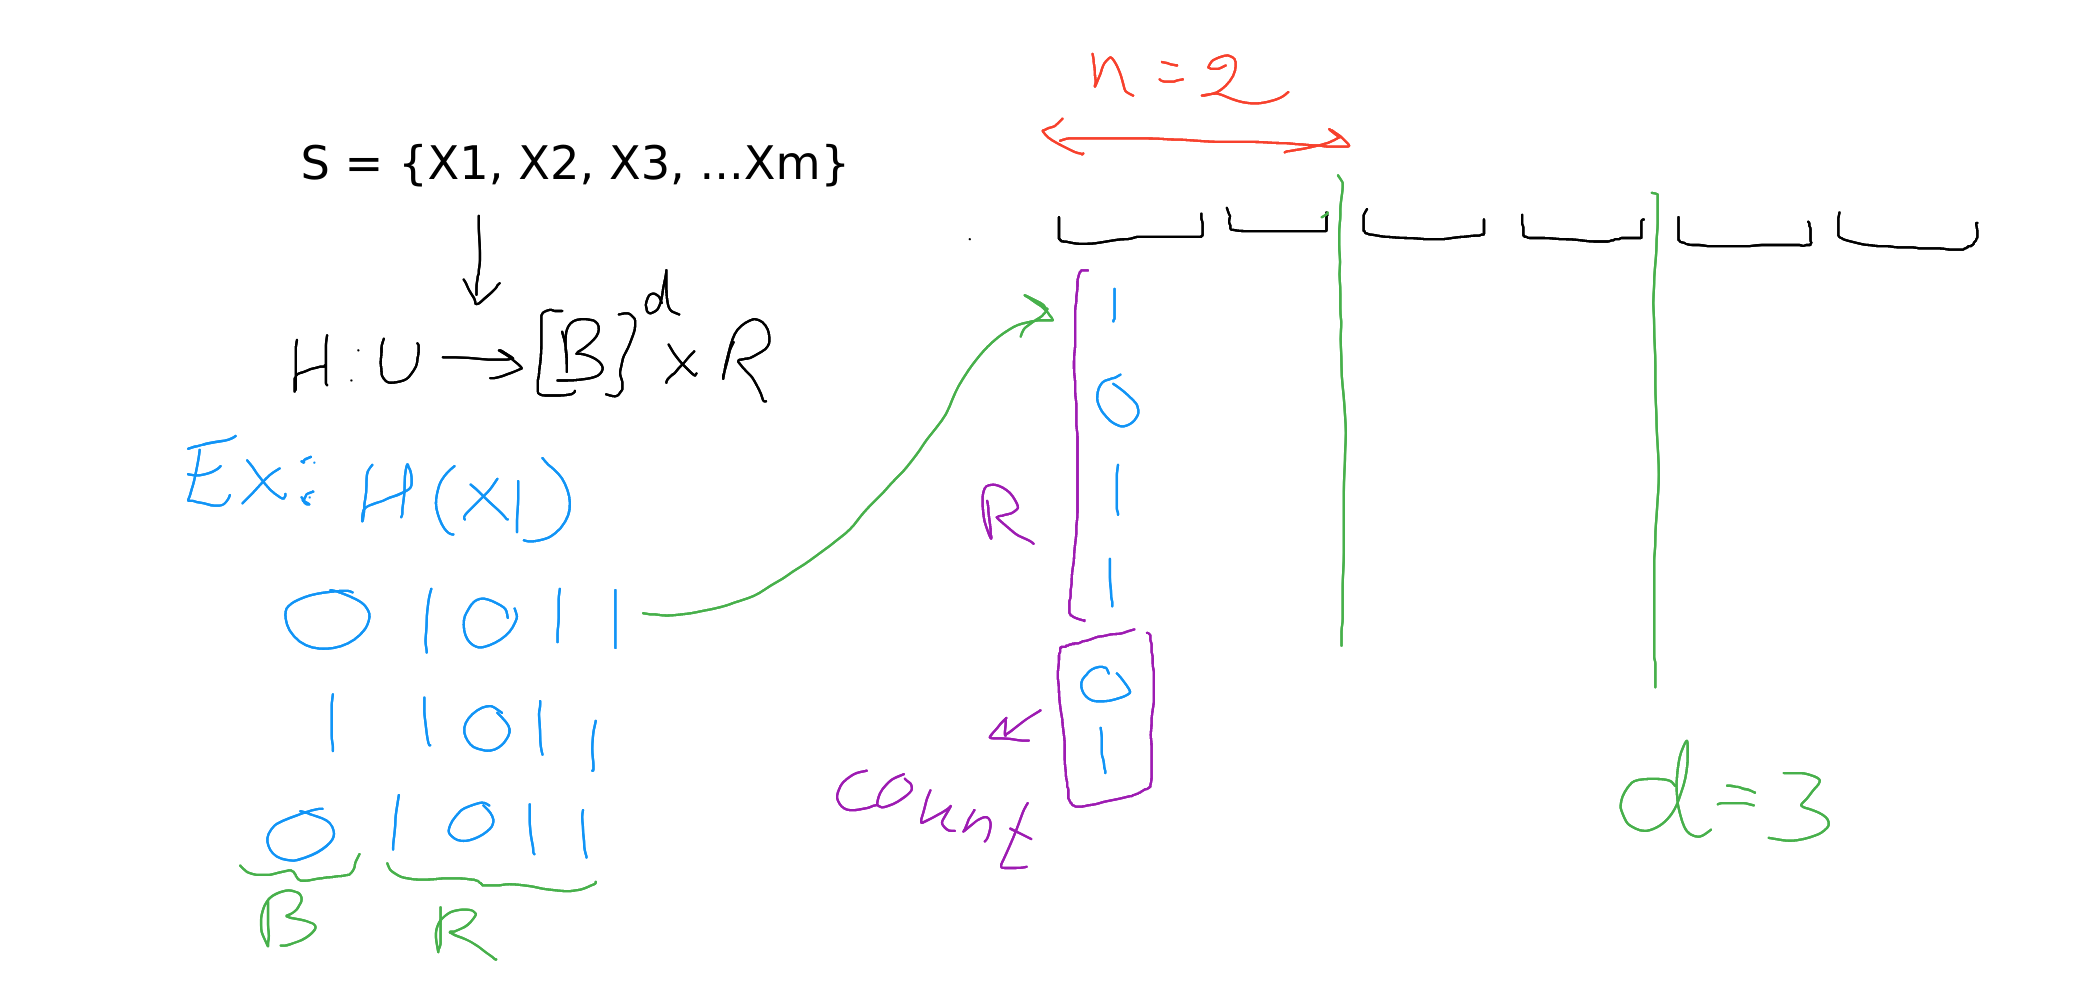
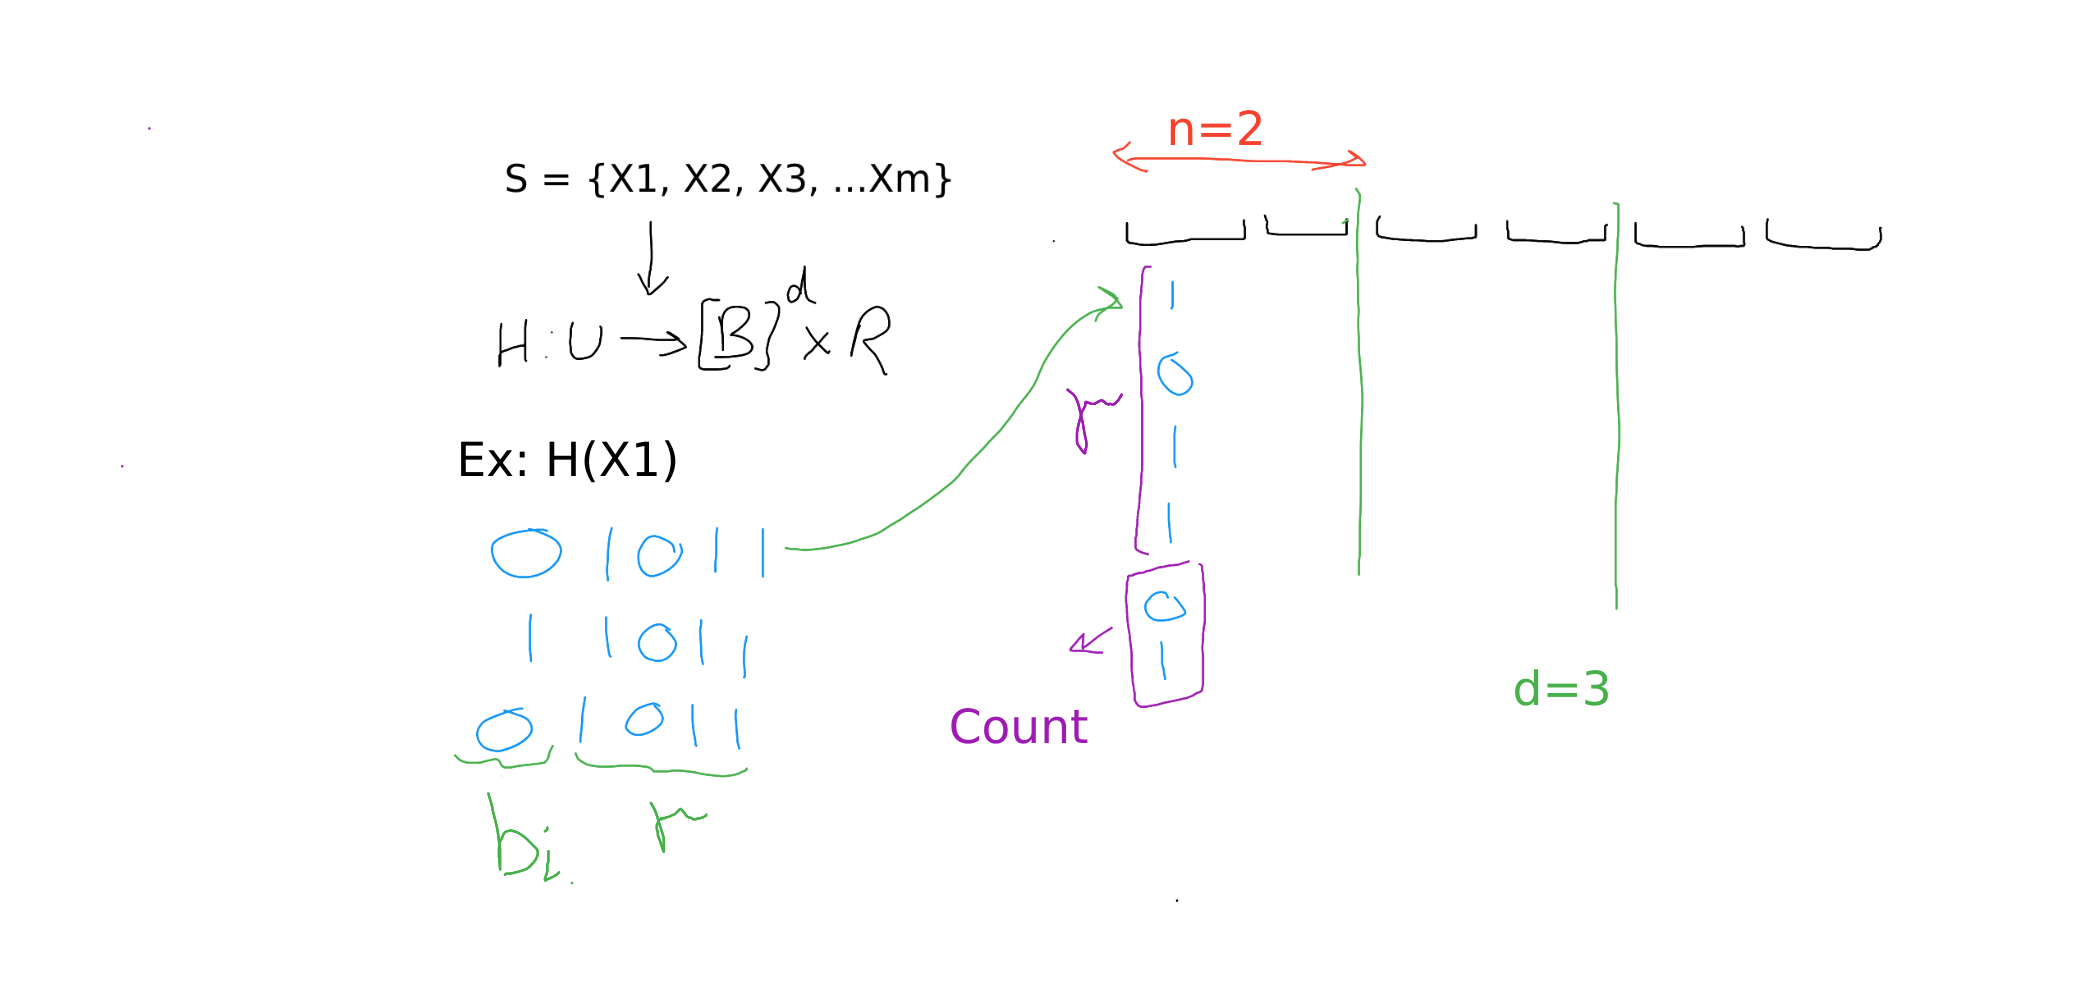
fix typos and dl-CBF explanation

diff --git a/_posts/2018-21-11-more-on-bloom-filters.md b/_posts/2018-21-11-more-on-bloom-filters.md
@@ -12,18 +12,18 @@ Given a large set of elements, how can we answer queries about set membership in
 
 Let $$S = \{x_1,x_2, x_3,...,x_n\}$$ be a set in universe $$U$$ on which we which to answer queries of the form *Does* $$y \in S$$ ? 
 
-Bloom filters (BF) is an extremely simple solution to this problem.
-They have been widely adopted in network routers, web caches and packet inspection. Bloom filters are also at work in [Uber's M3 platform](https://eng.uber.com/m3/){:target="_blank"}, [Blockchains](https://medium.com/@midnight426/bloom-filters-are-also-used-in-the-bitcoin-digital-currency-peer-to-peer-communication-d2e8aa124f68){:target="_blank"} and URL shortning service [Bitly](https://github.com/bitly/dablooms){:target="_blank"}. In the past [Google Chrome](https://bugs.chromium.org/p/chromium/issues/detail?id=71832){:target="_blank"} used Bloom filters to detect malicious URLs but have moved on to use Prefix-Set.
+Bloom filter (BF) is an extremely simple solution to this problem.
+They have been widely adopted in network routers, web caches and packet inspection. Bloom filters are also at work in [Uber's M3 platform](https://eng.uber.com/m3/){:target="_blank"}, [Blockchains](https://medium.com/@midnight426/bloom-filters-are-also-used-in-the-bitcoin-digital-currency-peer-to-peer-communication-d2e8aa124f68){:target="_blank"} and URL shortning service [Bitly](https://github.com/bitly/dablooms){:target="_blank"}. In the past [Google Chrome](https://bugs.chromium.org/p/chromium/issues/detail?id=71832){:target="_blank"} used Bloom filters to detect malicious URLs but have now moved on to use Prefix-Set.
 
 # Solution: Standard Bloom filter (SBF)
-Take a bit array $$B$$ of size $$m$$. Let $$H = \{h_1(x), h_2(x) ..., h_k(x)\}$$ be a family of k independent hash functions such that $$h(x)$$ is an integer in $$[0,m-1]$$. For every element in $$S$$, get k indices using all functions in $$H$$ and set those indices to 1 in our bit array. If a bit is already set to 1 by previous element, do nothing.
+Take a bit array $$B$$ of size $$m$$. Let $$H = \{h_1(x), h_2(x) ..., h_k(x)\}$$ be a family of k independent hash functions such that $$h_i(x)$$ is an integer in $$[0,m-1]$$. For every element in $$S$$, get k indices using all functions in $$H$$ and set those indices to 1 in our bit array. If a bit is already set to 1 by previous element, do nothing.
 
 To check if an element $$y \in S$$, obtain k indices using $$\{h_1(y), h_2(y), .. h_k(y)\}$$.\\
 $$y \in S$$ if and only if the bit is set to 1 at all k indices i.e
 
 $$y \in S \iff B[h_i(y)]=1 \quad \forall i \in \{0,1,2,..k-1\}$$.
 
-It is easy to see that this construction leaves the possibility for false positives. $$B[h_i(y)]$$ and $$B[h_j(y)]$$ may be set to 1 by set distinct elements $$x_m$$ and $$x_n$$. Probablity of false positive is given by
+It is easy to see that this construction leaves the possibility for false positives. $$B[h_i(y)]$$ and $$B[h_j(y)]$$ may be set to 1 by distinct elements $$x_m$$ and $$x_n$$. Probablity of false positive is given by
 
 $$P_{fp} = \bigg( 1 - e^{-kn/m}\bigg)^k$$
 
@@ -33,7 +33,7 @@ Derivation is straighforward and can be easily found online. [Wikipedia](https:/
 
 # Problem with SBF
 Bloom filters perform well when the set $$S$$ is static. For many real world applications, this is not the case and $$S$$ changes over time with addition and deletion of elements, example routers monitoring network flows witness new connections being established and others getting closed. 
-> Deletion of elements from the set $$S$$ may lead to **False Negatives** in a Bloom filter.
+> Deletion of elements from the set $$S$$ may lead to **False Negatives** in a Standard Bloom filter.
 
 The reason is self evident. If we set $$B[h_i(x')]=0$$ for $$i=\{1,2,...,k\}$$ while deleting $$x'$$, we may also be setting $$B[h_m(x'')]=0$$ where $$h_m(x'')=h_i(x')$$ for some $$i$$. Subsequent membership queries for $$x''$$ will wrongly output *false*. This has prompted researchers to come up with several solutions which allow delete operation in a BF. Three of these are discussed below.
 
@@ -43,7 +43,7 @@ We can make a small change to bit array $$B$$ to overcome the problem of false n
 $$P(max(c)>16) \leq 1.37\times 10^{-15} \times m$$
 
 # Problem with CBF
-Each cell in a CBF takes up 4 bits even though most of the values are zero. We can see that a CBF does poor utilization of space and reaches atleast 4x the size of a SBF.
+Each cell in a CBF takes up 4 bits even though most of the values are zero. We can see that a CBF has poor utilization of space and reaches atleast 4x the size of a SBF.
 
 # Solution: d-left Counting Bloom Filter (dl-CBF)
 d-left hashing is an "almost perfect" dynamic hash function [2]. We need a dynamic hash function because elements can be added and deleted from our set $$S$$ and a static hash function does not perform well for a changing set.
@@ -52,21 +52,22 @@ Steps for dl-CBF construction:
 1. Take a hash table with $$n \times d$$ buckets. Each cell in a bucket stores a fingerprint and count.
 2. Divide the hash table into $$d$$ subtables. Each subtable has $$n$$ buckets.
 3. For each element $$X_i$$ in the set, use hash function of the form $$H: U \rightarrow [B]^d \times R$$
-   1. $$B_i$$ denotes bucket index and has range $$[0,n-1]$$. We get $$d$$ bucket indices, one for each subtable.
-   2. $$R$$ is the fingerprint of each element of size $$k$$ bits.
-   4. Search $$d$$ buckets to see if $$R$$ exists in any bucket. If yes, increment the count of that cell.
-   5. If the fingerprint $$R$$ is not found, select the least loaded bucket from our $$d$$ choices. If two or more buckets have the same load, select the left most bucket to add the fingerprint.
+   1.  Let $$ H(X_i) = \{b_1, b_2, ..b_d\} \times r$$
+	   1. $$b_i \in B$$ denote bucket index where $$B = \{0,1,2,...n-1\}$$.
+	   2. $$r \in R$$ is the fingerprint of size $$k$$ bits.
+   4. Search $$d$$ buckets to see if $$r$$ exists in any bucket. If yes, increment the count of that cell.
+   5. If the fingerprint $$r$$ is not found, select the least loaded bucket from our $$d$$ choices. If two or more buckets have the same load, select the left most bucket to add the fingerprint.
    
 > Always-go-left is a biased choice in case of clash. This may seem counter-intuitive to our objective of balancing load uniformly across buckets. Curious readers can read this [[2]](https://dl.acm.org/citation.cfm?id=792546){: target="_blank"} interesting paper.
 
 ![cbf](/img/aww-board.png){: width="100%"}
 *{1011} is fingerprint of $$X1$$ which is put into the first bucket since it was the left-most least loaded*
 
-To check membership of an element $$y$$, get its target $$[B]^d \times R$$ using the hash function and search $$d$$ buckets parallely. If $$R$$ is found, we say $$y \in S$$\\
-To delete an element, we follow similar procedure to CBF. Use the hash function to find the bucket which holds $$R$$ and decrement the count.
+To check membership of an element $$y$$, get its target $$\{b_1,b_2,..b_d\} \times r_y$$ using the hash function and search $$d$$ buckets parallely. If $$r_y$$ is found, we say $$y \in S$$\\
+To delete an element, we follow similar procedure to CBF. Use the hash function to find the bucket which holds $$r_y$$ and decrement the count.
 
 **Comparision with CBF**:
-Since elements are hashed to $$B \times R$$ bits instead of a single index in CBF, the probability of collisions in d-left hashing is very low (upper bounded by $$2^{-B\times R}$$). This allows us to have **smaller 2 bit counters** as compared to the 4 bit counters necessary in CBF to prevent overflow. Experiments by Bonomi et.al [1] reveal that
+Since elements are hashed to $$log_2(n) \times k$$ bits instead of a single index in CBF, the probability of collisions in d-left hashing is very low (upper bounded by $$2^{-log_2(n)\times k}$$). This allows us to have **smaller 2 bit counters** as compared to the 4 bit counters necessary in CBF to prevent overflow. Experiments by Bonomi et.al [1] reveal that
 1. dl-CBF of the same size as CBF achieves 100 times smaller false positive probability.
 2. For the same false positive probability, dl-CBF utilizes half the space of a conventional CBF.
 
@@ -78,22 +79,22 @@ Result is easy to derive. Refer to [1] for more details.
 
 # Cuckoo Filter (CF)
 A Cuckoo filter is based on Cuckoo Hashing. It is a simple yet powerful algorithm which can achieve upto 95% utilization of the hash table. It it 3-4 times more space efficient than a CBF and upto 2 times more space efficient than a  dl-CBF.\\
-**Cuckoo Hashing**: We start off with a hash table with n buckets. For every element to be added to the hash table, we have two buckets to choose from. These two buckets are dervied from two hash functions $$h_1(x)$$ and $$h_2(x)$$. If either of the two buckets is empty, we insert $$x$$ into that bucket. If both are occupied, choose either one and move its element to its alternative bucket in the table.
+**Cuckoo Hashing**: We start off with a hash table with n buckets. For every element to be added to the hash table, we have two buckets to choose from. These two buckets are dervied from two hash functions $$h_1(x)$$ and $$h_2(x)$$. If either of the two buckets is empty, we insert $$x$$ into that empty bucket. If both are occupied, choose either one and move its element to its alternative bucket in the table.
 ![cuckoo](/img/cuckoo.png){: width="100%"}
-*An illustration of Cuckoo hashing. $$x$$ is hashed to the buckets containing $$a$$ and $$b$$. We move $$a$$ to its alternate position to accomodate $$x$$. At $$a$$'s alternate positions, $$c$$ is already present. $$c$$ is moved to its alternate position to make space for $$a$$. Source [4]*
+*An illustration of Cuckoo hashing. $$x$$ is hashed to the buckets containing $$a$$ and $$b$$. We move $$a$$ to its alternate position to accomodate $$x$$. At $$a$$'s alternate position, $$c$$ is already present. $$c$$ is moved to its alternate position to make space for $$a$$. Source [4]*
 
 Some changes to the standard Cuckoo Hashing technique are required to make it work as a set membership datastructure. Instead of storing the element as it is in the hash table, we store fixed length fingerprints. This helps us save space but also leads to another issue. In the image above, when $$x$$ wants to take the place of $$a$$, we need to calculate the alternate bucket for $$a$$. This means we need access to the element $$a$$ so that we can calculate its alternative position $$h_1(a)$$ or $$h_2(a)$$. Since we are only storing fingerprints, we need a way to calculate the new bucket index without access to the original element itself. This is accomplished by a simple idea. Two candidate buckets are calculated as following:
 
 $$h_1(x) = hash(x) \qquad \quad h_2(x) = h_1(x) \oplus hash(fingerprint(x))$$
 
-If we have to move an element in bucket $$i$$, we can calculate its new position using $$ j = i \oplus hash(fingerprint(x))$$
+If we have to move an element in bucket $$i$$, we can calculate its new position with the help of *XOR* operation $$ j = i \oplus hash(fingerprint(x))$$
 
-There is a trade off between table occupancy and size of fingerprint. If we want higher table occupancy, we have to increase size of fingerprints to maintain the same probability of false positives.
+There is a trade off between table occupancy and size of fingerprint. If we want higher table occupancy, we have to increase size of fingerprints to maintain the same probability of false positives. We need larger fingerprints to reduce probability of collisions.
 ![cuckoo_algo](/img/cuckoo_algo.png){: width="100%"}
 *Algorithms to insert, lookup and delete elements from a Cuckoo filter. It is relatively simple once we grasp Cuckoo hashing and the 2 modifications discussed above. Source [4]*
 
 # Summary
-We looked at 3 different variants of the Standard Bloom Filter (SBF) which handle deletion of elements. Counting Bloom Filter (CBF) is extremely simple in construction but it has very poor utilization of space. With some added complexity, d-left Counting Bloom Filter (dl-CBF) improves upon CBF by using d-left hashing and storing element fingerprints to save space and reduce probability of false positive. Finally, Cuckoo Filter goes further in saving space by getting rid of counters. There are alse other variants of Bloom Filter such as Bloomier Filter or Quotient Filter and the users need to evaluate which is best suited for their application. 
+We looked at 3 different variants of the Standard Bloom Filter (SBF) which handle deletion of elements. Counting Bloom Filter (CBF) is extremely simple in construction but it has very poor utilization of space. With some added complexity, d-left Counting Bloom Filter (dl-CBF) improves upon CBF by using d-left hashing and storing element fingerprints to save space and reduce probability of false positive. Finally, Cuckoo Filter goes further in saving space by getting rid of counters. There are alse other variants of Bloom Filter such as Bloomier Filter or Quotient Filter and it is upto the user to evaluate which is best suited for their application. 
 
 # References
 [1] F. Bonomi, M. Mitzenmacher, R. Panigrahy, S. Singh, G. Varghese, *"An improved construction for counting bloom filters"*, Proc. ESA'06, pp. 684-695.\\
